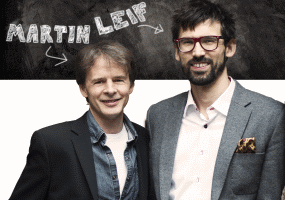
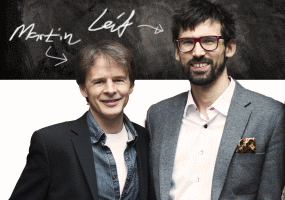
more design

Changed region(s): [[0.0, 0.0, 0.5333, 0.24]]

diff --git a/css/main.css b/css/main.css
@@ -150,8 +150,12 @@
 .site-branding {
     float: left;
     position: absolute;
-    margin-top: 40px;
+    margin-top: 80px;
     margin-left: 20px;
+}
+
+#logo {
+    margin-top: -40px;
 }
 
 .site-branding a {
@@ -164,12 +168,11 @@
     /*font-weight: 800;*/
     font-family: 'Gotham-Bold';
     padding-left: 10px;
-    margin-top: 60px;
+    margin-top: 20px;
 }
 
 .site-title div {
     line-height: 36px;
-
 }
 
 @media (min-width: 1200px) {
@@ -211,6 +214,27 @@
     }
 }
 
+/*En lösning för hur headern ska bete sig när skärmen blir riktigt liten: */
+@media (max-width: 510px) {
+    .site-branding>a {
+        width: 111px;
+    }
+
+    #logo {
+        height: 111px;
+        width: 111px;
+    }
+
+    .site-branding {
+        margin-left: 10px;
+    }
+
+    .site-title div {
+        font-size: 24px;
+        line-height: 24px;
+    }
+}
+
 .wpp-list {
     font-size: 0.8em;
     padding-top: 5px;
@@ -225,14 +249,13 @@
 /* Override the stupid "popular post"-plugins css */
 .wpp-list li {
     display: list-item !important;
-    overflow:visible !important;
+    overflow: visible !important;
 }
 
 .sidebar-body {
     font-size: 0.8em;
     padding-top: 5px;
     margin-left: 15px;
-
 
 }
 

diff --git a/header.php b/header.php
@@ -39,6 +39,7 @@
             <img id="authors" src="<?php echo get_bloginfo('template_directory'); ?>/img/authors_wide.png"/>
 
             <nav id="site-navigation" class="" role="navigation">
+                <?php //denna h1:an är ett mysteri, headern slutar funka utan den... ?>
                 <h1 class="menu-toggle hide"><?php _e('Menu', 'innovation1000'); ?></h1>
                 <a class="skip-link screen-reader-text"
                    href="#content"><?php _e('Skip to content', 'innovation1000'); ?></a>
@@ -46,10 +47,10 @@
                 <?php wp_nav_menu(array('theme_location' => 'primary')); ?>
             </nav>
 
-                <div class="site-branding">
+            <div class="site-branding">
 
                 <a href="<?php echo esc_url(home_url('/')); ?>" rel="home">
-                    <img src="<?php echo get_bloginfo('template_directory'); ?>/img/logo.png"/>
+                    <img id="logo" src="<?php echo get_bloginfo('template_directory'); ?>/img/logo.png"/>
                 </a>
 
                 <div class="site-title">
